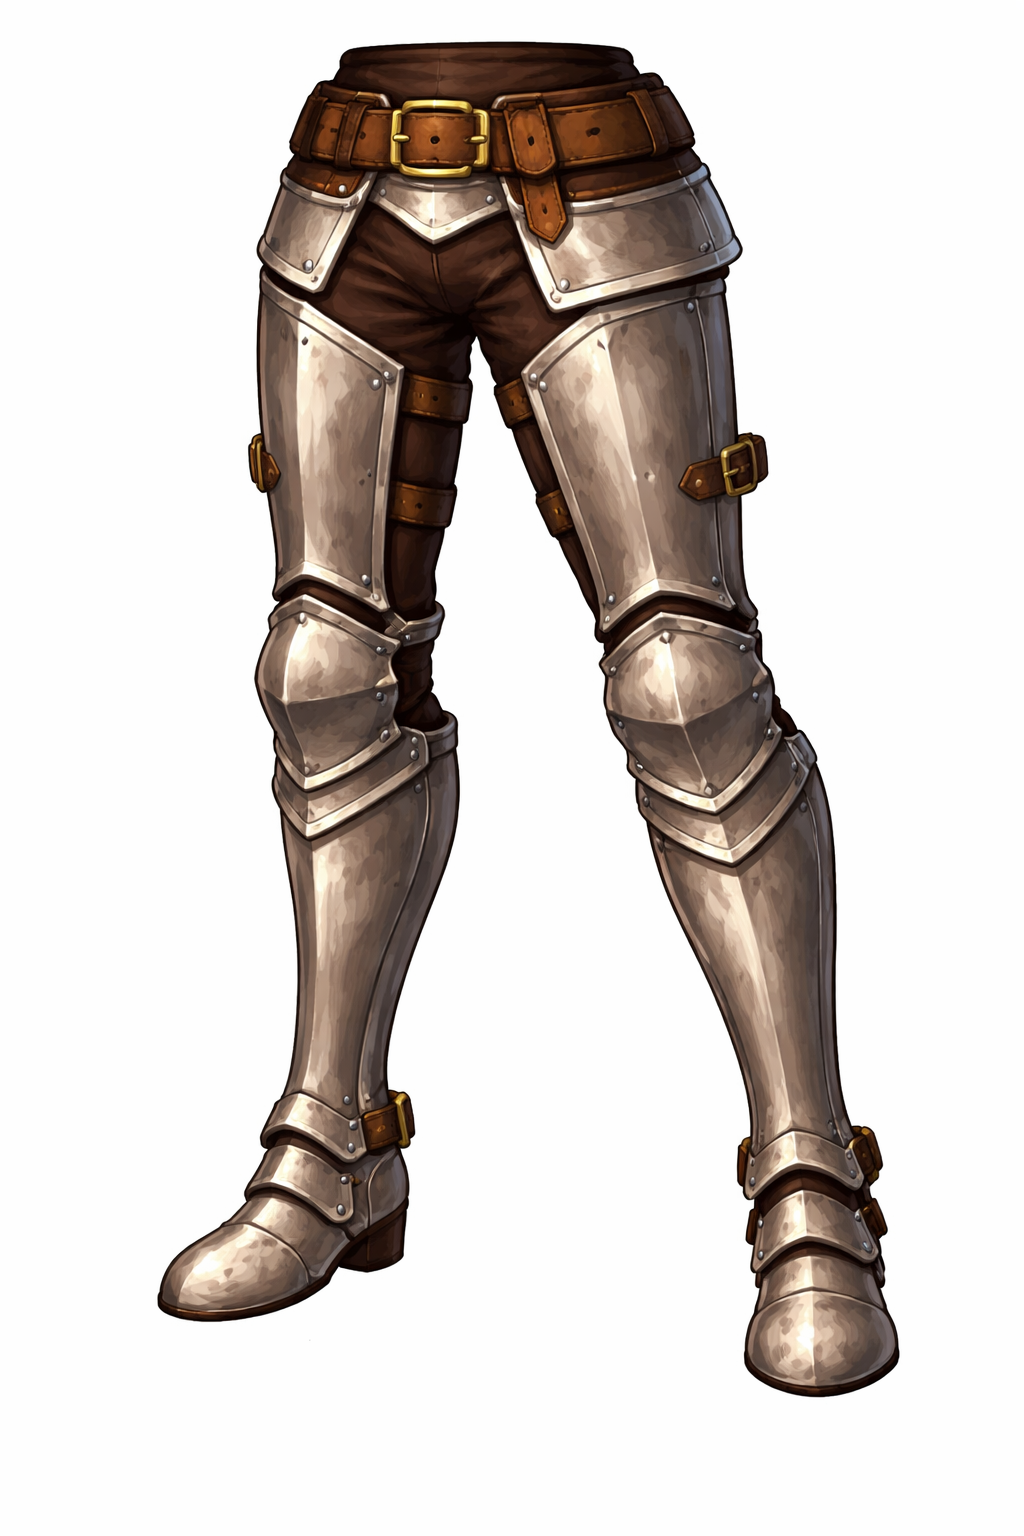
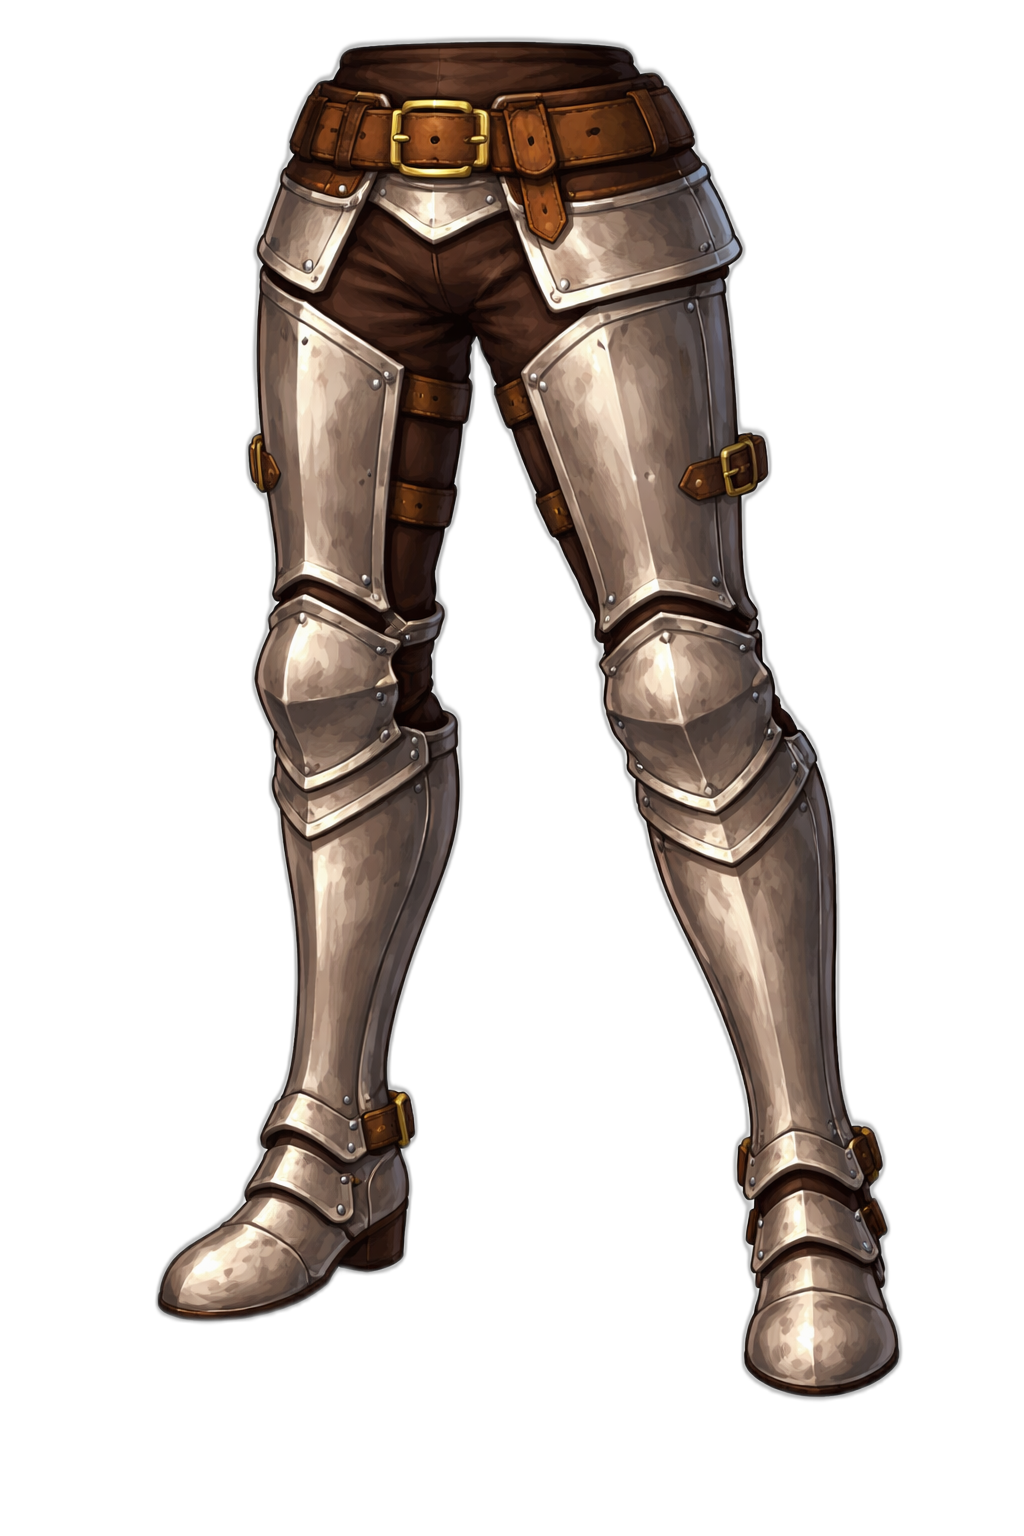
Remove white backgrounds from 22 art assets
Used rembg (AI background removal) on all items and 7 portraits
that had white backgrounds instead of transparency.

Originals backed up locally in assets/_originals/ (gitignored).
Added tools/remove_bg.py for future use and .gitignore.

diff --git a/tools/remove_bg.py b/tools/remove_bg.py
@@ -1,0 +1,124 @@
+"""
+Scan assets/ for PNGs with white/solid backgrounds and remove them using rembg.
+Originals are backed up to assets/_originals/ before overwriting.
+"""
+
+import os
+import shutil
+import sys
+from PIL import Image
+import numpy as np
+
+ASSETS_ROOT = os.path.join(os.path.dirname(__file__), "..", "assets")
+BACKUP_DIR = os.path.join(ASSETS_ROOT, "_originals")
+# Backgrounds are intentionally opaque — skip them
+SKIP_DIRS = {"_originals", "backgrounds"}
+
+CORNER_THRESHOLD = 240  # RGB values above this in corners = likely white bg
+CORNER_MIN_RATIO = 0.6  # At least 60% of corner pixels must be "white"
+
+
+def has_white_background(img_path):
+    """Check if a PNG either lacks alpha or has white-ish corners."""
+    img = Image.open(img_path).convert("RGBA")
+    w, h = img.size
+    arr = np.array(img)
+
+    # If image already has meaningful transparency, skip it
+    alpha = arr[:, :, 3]
+    transparent_ratio = np.sum(alpha < 240) / alpha.size
+    if transparent_ratio > 0.05:
+        return False
+
+    # Sample corner regions (10% of each dimension)
+    margin_x = max(1, w // 10)
+    margin_y = max(1, h // 10)
+    corners = np.concatenate([
+        arr[:margin_y, :margin_x, :3].reshape(-1, 3),        # top-left
+        arr[:margin_y, -margin_x:, :3].reshape(-1, 3),       # top-right
+        arr[-margin_y:, :margin_x, :3].reshape(-1, 3),       # bottom-left
+        arr[-margin_y:, -margin_x:, :3].reshape(-1, 3),      # bottom-right
+    ])
+
+    white_pixels = np.all(corners > CORNER_THRESHOLD, axis=1)
+    ratio = np.sum(white_pixels) / len(white_pixels)
+    return ratio >= CORNER_MIN_RATIO
+
+
+def process_image(img_path, rel_path):
+    """Remove background from a single image, backing up the original."""
+    from rembg import remove
+
+    print(f"  Processing: {rel_path}")
+
+    # Create backup preserving subfolder structure
+    backup_path = os.path.join(BACKUP_DIR, rel_path)
+    os.makedirs(os.path.dirname(backup_path), exist_ok=True)
+    shutil.copy2(img_path, backup_path)
+
+    # Remove background
+    with open(img_path, "rb") as f:
+        input_data = f.read()
+    output_data = remove(input_data)
+
+    with open(img_path, "wb") as f:
+        f.write(output_data)
+
+    print(f"  Done (original backed up)")
+
+
+def main():
+    os.makedirs(BACKUP_DIR, exist_ok=True)
+    candidates = []
+
+    # Scan for PNGs
+    for root, dirs, files in os.walk(ASSETS_ROOT):
+        # Skip backup dir and backgrounds
+        dirs[:] = [d for d in dirs if d not in SKIP_DIRS]
+        for fname in files:
+            if not fname.lower().endswith(".png"):
+                continue
+            full_path = os.path.join(root, fname)
+            rel_path = os.path.relpath(full_path, ASSETS_ROOT)
+            candidates.append((full_path, rel_path))
+
+    print(f"Scanning {len(candidates)} PNG files for white backgrounds...\n")
+
+    needs_fix = []
+    for full_path, rel_path in candidates:
+        try:
+            if has_white_background(full_path):
+                print(f"  [WHITE BG] {rel_path}")
+                needs_fix.append((full_path, rel_path))
+            else:
+                print(f"  [OK]       {rel_path}")
+        except Exception as e:
+            print(f"  [SKIP]     {rel_path} ({e})")
+
+    if not needs_fix:
+        print("\nNo images with white backgrounds found!")
+        return
+
+    print(f"\nFound {len(needs_fix)} image(s) with white backgrounds.")
+    print(f"Originals will be backed up to: assets/_originals/\n")
+
+    auto_yes = "--yes" in sys.argv
+    if not auto_yes:
+        confirm = input("Proceed with background removal? [y/N] ").strip().lower()
+        if confirm not in ("y", "yes"):
+            print("Aborted.")
+            return
+
+    print()
+    for full_path, rel_path in needs_fix:
+        try:
+            process_image(full_path, rel_path)
+        except Exception as e:
+            print(f"  [ERROR] {rel_path}: {e}")
+
+    print(f"\nDone! {len(needs_fix)} image(s) processed.")
+    print(f"Originals saved in: assets/_originals/")
+
+
+if __name__ == "__main__":
+    main()
